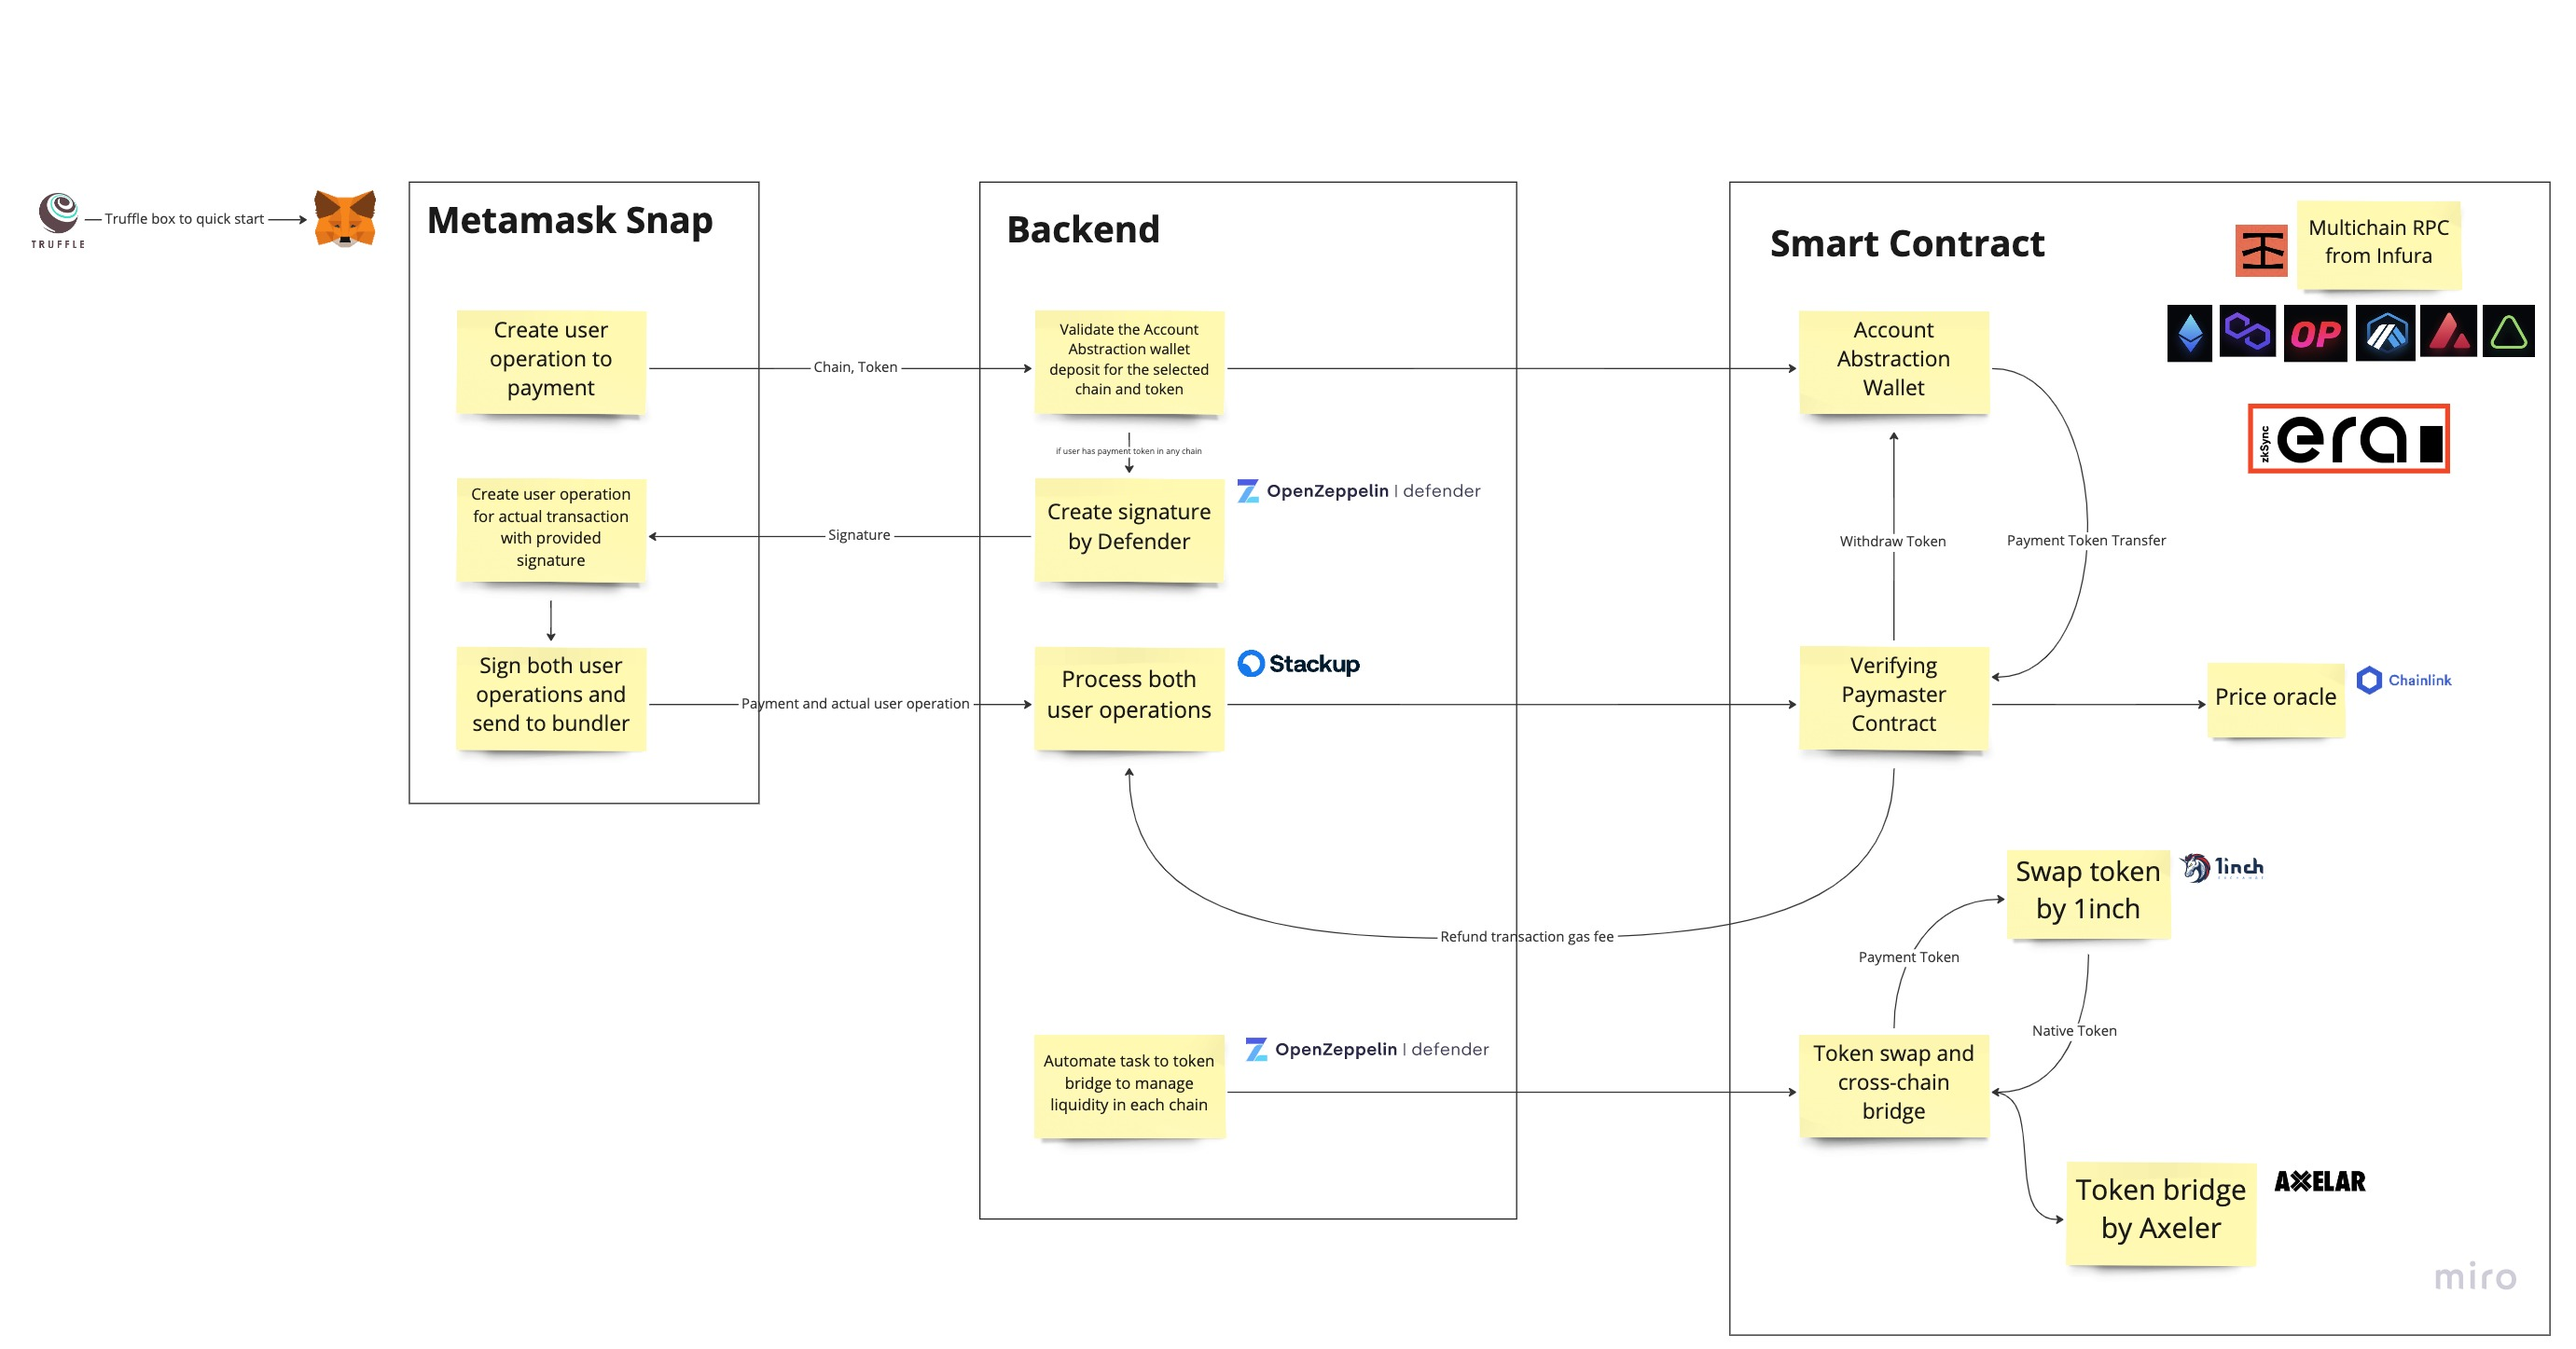
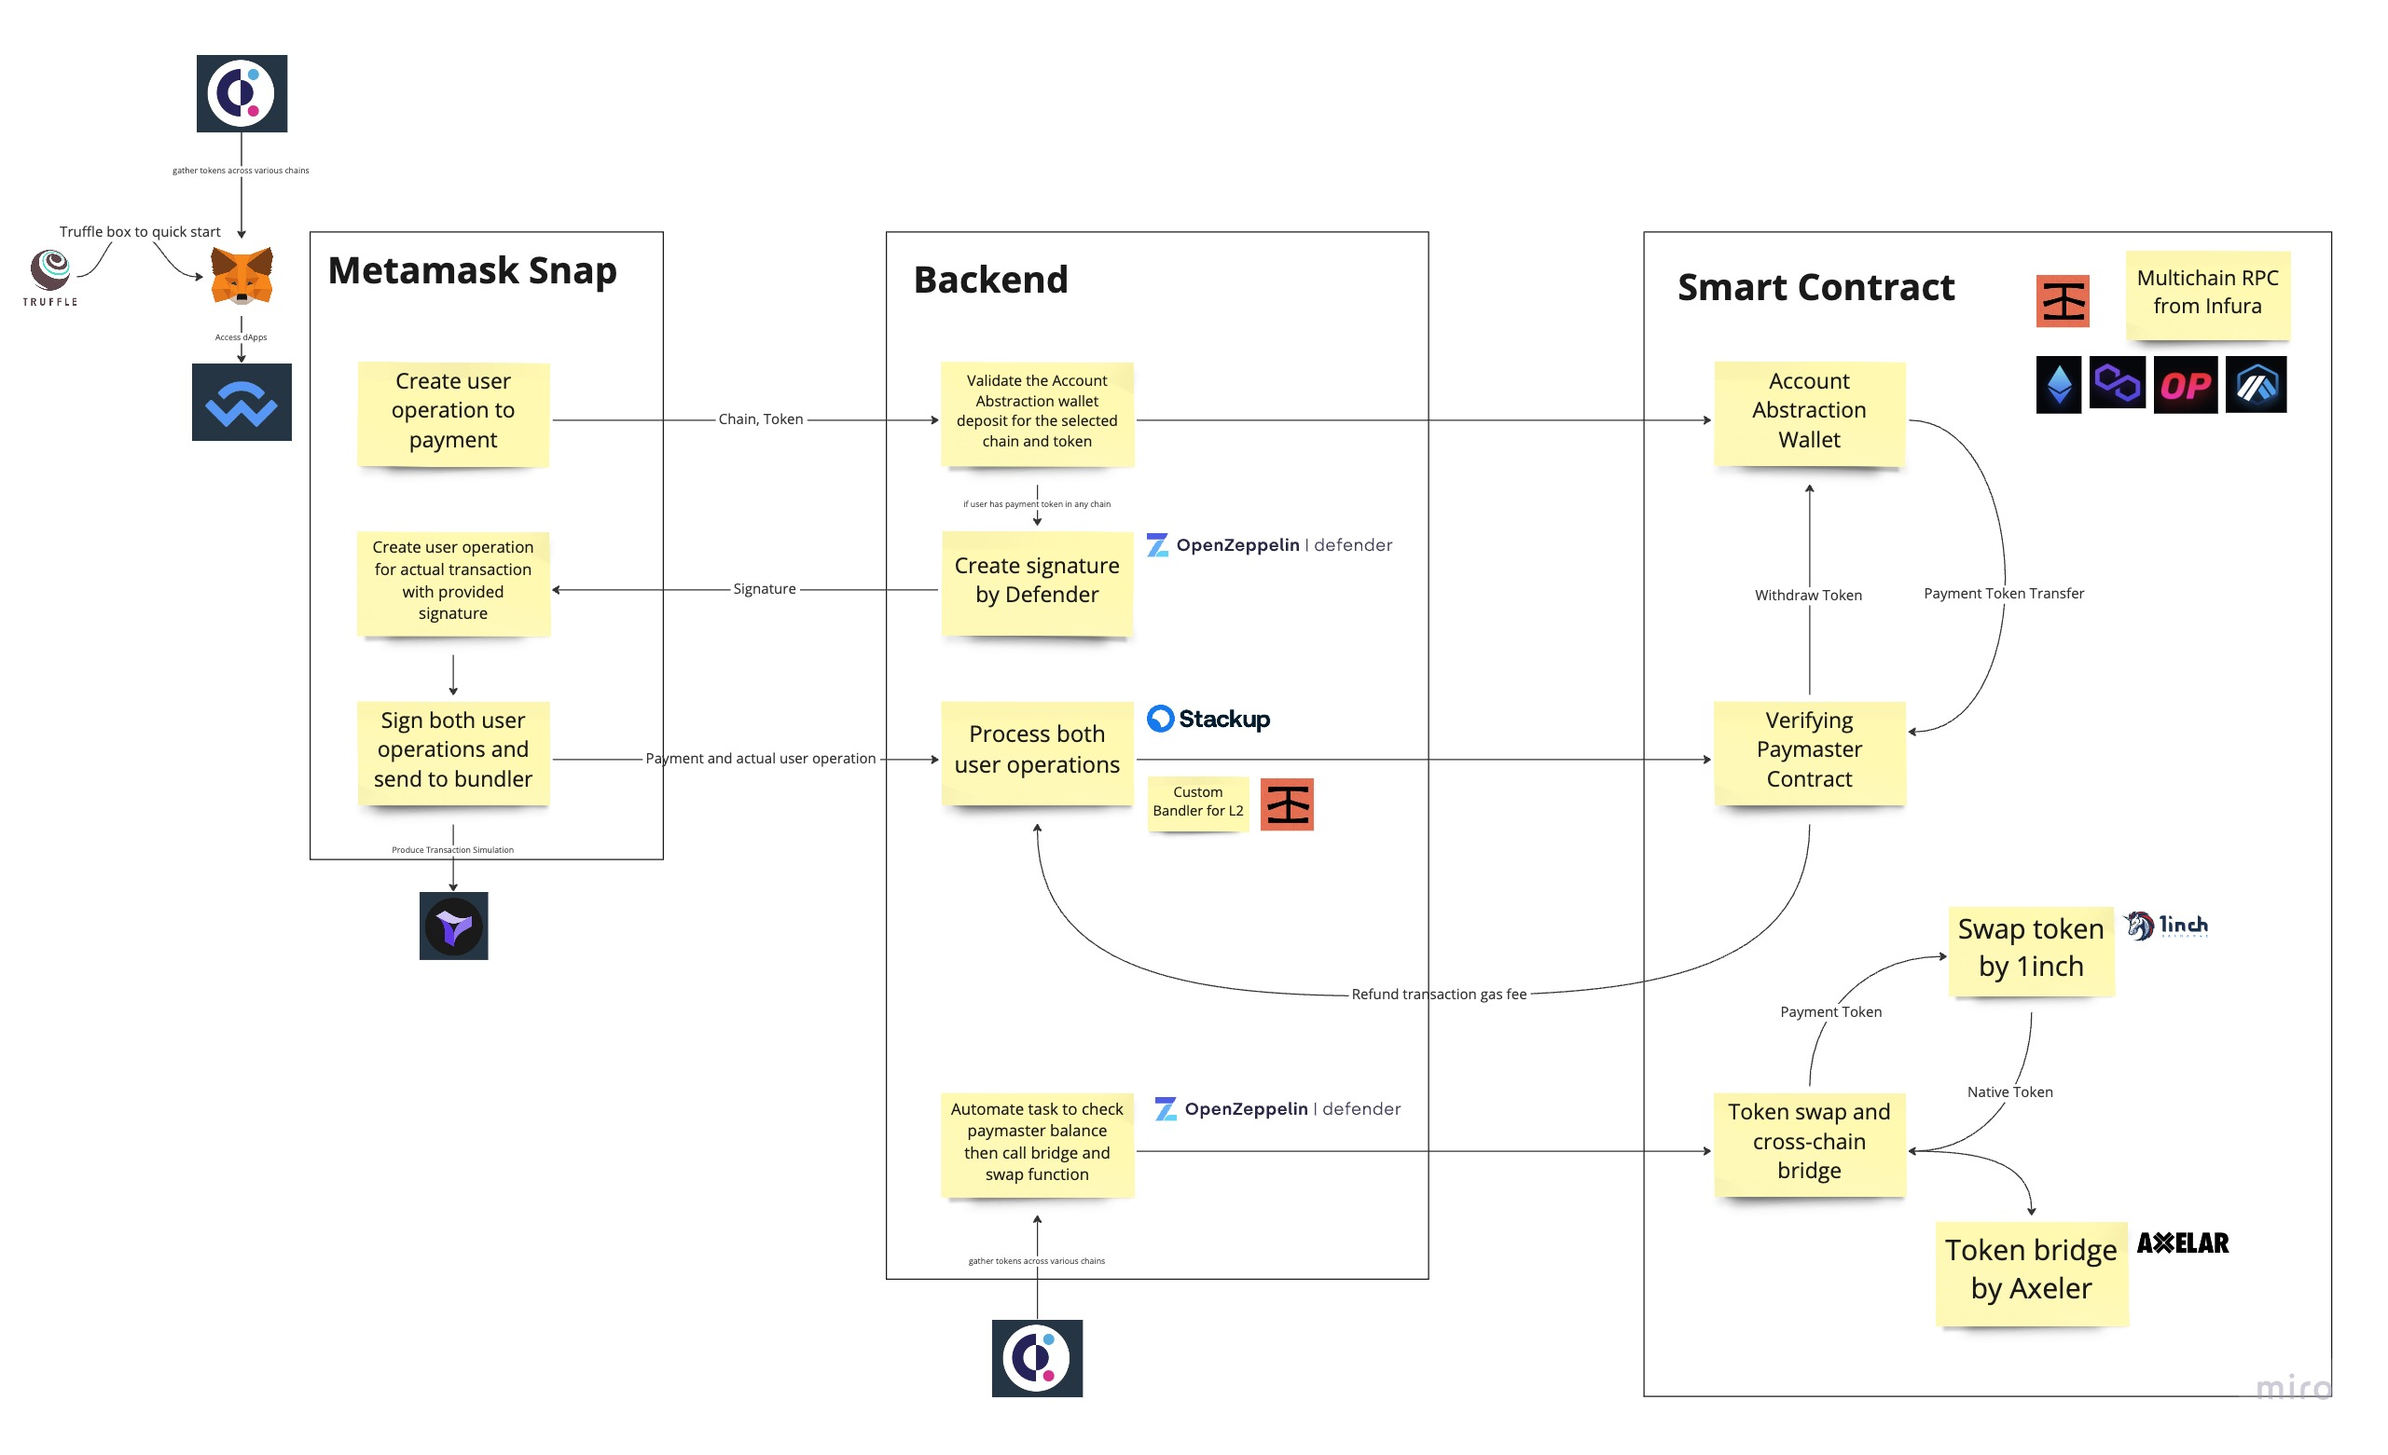
chore: readme

diff --git a/README.md b/README.md
@@ -5,6 +5,16 @@ It eliminates the need to swap or bridge tokens, making transactions across mult
 
 ![banner](./docs/banner_wide.png)
 
+## Submission
+
+### Live Demo
+
+TBD
+
+### Video
+
+TBD
+
 ## Account Abstraction
 
 Our smart contract and bundler are fully compatible with the newly released version of the Account Abstraction contract from Ethereum Foundation, which was activated during ETHDenver 2023.
@@ -19,24 +29,30 @@ With its compatibility with the latest version of Account Abstraction, CrossFuel
 
 ### Metamask Snap
 
-Metamask Snap is an extension function of Metamask that enables the addition of the Account Abstraction function to Metamask.
-
-[Detail](https://github.com/taijusanagi/2023-eth-denver-submission/blob/main/docs/metamask-snap.md)
+Metamask Snap is an extension feature of Metamask that adds the Account Abstraction function, which was previously cumbersome to use and required multiple signatures, making it difficult to comprehend the transaction process. By automating the Account Abstraction signature and providing a transaction simulator for improved security, Metamask Snap simplifies and enhances the user experience.
 
 ### Infura & Truffle
 
-Infura is a multichain node service used to deploy multichain contracts, while Truffle is a core development tool in our team that provides a starter kit for Metamask Snap.
-
-[Detail](https://github.com/taijusanagi/2023-eth-denver-submission/blob/main/docs/infura-truffle.md)
+Our team utilizes Infura, a multichain node service, for deploying multichain contracts, including the Account Abstraction infrastructure contract, which we are deploying to each chain. Meanwhile, Truffle, a core development tool, provides a starter kit for Metamask Snap and smart contract.
 
 ### Defender
 
-Defender creates a signature for verifying paymaster contract and automates multichain deposit syncing.
+Defender automates the verification of the signature within the paymaster contract, as well as the paymaster deposit balance check and any required fund transfers, making it an excellent choice for CrossFuel, which requires a stable infrastructure for signing and health check.
 
-[Detail](https://github.com/taijusanagi/2023-eth-denver-submission/blob/main/docs/defender.md)
+### Axelar
+
+Axelar Network is a crucial component of our cross-chain gas payment service. In the event of insufficient funds, we leverage the cross-chain bridge to transfer funds from a chain with a surplus. Additionally, we utilize Squid, the cross-chain swap and liquidity routing protocol, on the Axelar Network to facilitate our operations.
 
 ### Tenderly
 
 Communicating the inner workings of Account Abstraction to users is challenging. To enhance the user experience, we're using Tenderly to simulate transaction results. This allows users to review the transaction outcome before submitting it to the bundler, thereby ensuring the security of the process. This security feature is critical in making the Account Abstraction wallet widely accepted.
+
+### Web3Wallet
+
+By creatively integrating Web3Wallet with Metamask Snap, our app has gained increased composability and can now access any dApps that support WalletConnect. This integration enables cross-chain gas payment for any WalletConnect supported dApps, allowing for greater flexibility and accessibility.
+
+### Covalent
+
+In our data retrieval process across multiple chains, Covalent plays a pivotal role. On the frontend, we gather supported tokens across various chains, while on the backend, we use Covalent to obtain balance data to ensure validation prior to conducting swaps and cross-chain bridge transfers.
 
 By working together, these services provide a seamless and secure user experience, allowing users to interact with dApps across multiple chains without worrying about managing tokens across different chains.
